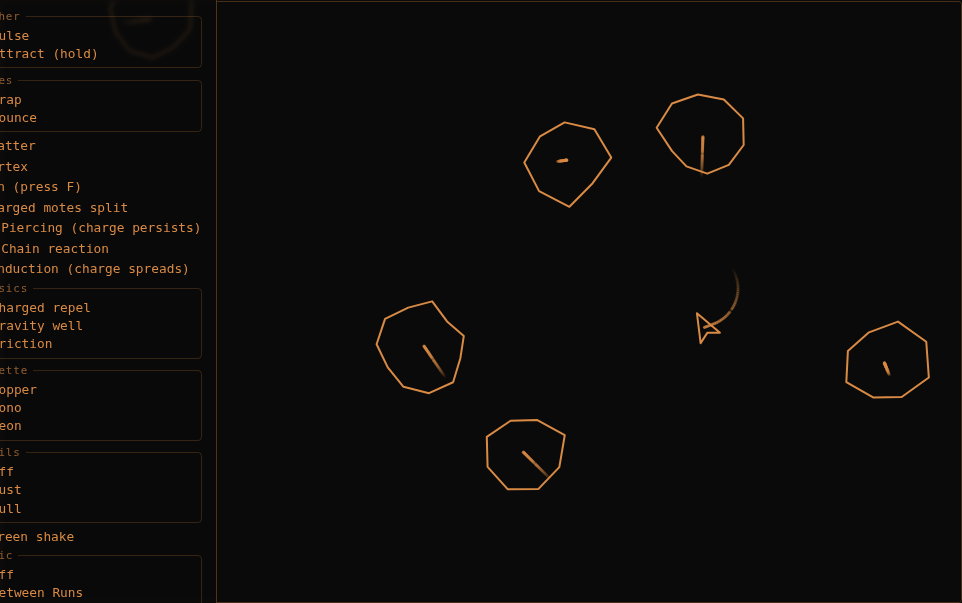
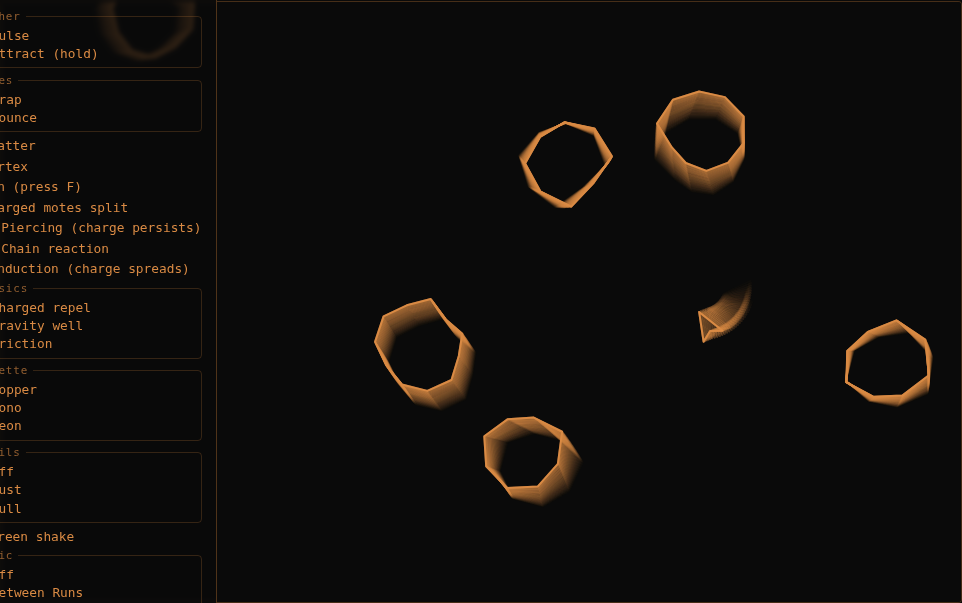
fix: full trail is faded shape outlines (no residue), not blobs
Two more trail corrections from playtest:
- Full was big dots — wrong. It now trails each entity's ACTUAL outline: a list
  of faded shape snapshots (Ghost = pos/angle/radius/shape), the mote polygons and
  the ship, ebbing away.
- The offscreen destination-out fade still left a ~1/255 alpha residue (a rounding
  fixed point) — the "résidus". Dropped the fade entirely: trails are now particles
  (dust grains + full ghosts) that are culled when dead, over a fully-cleared
  canvas, so there is zero permanent residue. The only marks are live ghosts of
  moving entities.

Verified on copper: full smears the shape outlines; the background stays clean (the
smears at rest are the still-drifting motes' live trail, not burn-in).

diff --git a/src/render.ts b/src/render.ts
@@ -4,6 +4,7 @@
 
 import { FIELD_RANGE, PULSE_RANGE } from './sim'
 import type { Config } from './config'
+import type { Vec2 } from './geometry'
 import type { FieldMode, World } from './entities'
 
 interface Palette { bg: string, stroke: string, dim: string, charged: string }
@@ -16,21 +17,26 @@ const PALETTES: Record<Config['palette'], Palette> = {
 
 const PULSE_FLASH = 0.35 // seconds the gather-pulse ripple stays visible
 
-// A trail particle — owned and aged by main; drawn here as a fading dot. The canvas is
-// fully cleared each frame, so trails leave NO residue in the background.
+// Trail particles — owned and aged by main, drawn here. The canvas is fully cleared each
+// frame and dead particles are dropped, so trails leave NO residue. `TrailDot` is a dust
+// grain; `Ghost` is a faded snapshot of an entity's outline (the full trail).
 export interface TrailDot { x: number, y: number, life: number, max: number, r: number, a: number }
+export interface Ghost { x: number, y: number, angle: number, radius: number, shape: Vec2[], ship: boolean, life: number, max: number }
 
 // The active palette for this frame — set at the top of draw(), read by the helpers.
 let active: Palette = PALETTES.copper
 
-export function draw(ctx: CanvasRenderingContext2D, world: World, config: Config, trail: TrailDot[]): void {
+export function draw(ctx: CanvasRenderingContext2D, world: World, config: Config, grains: TrailDot[], ghosts: Ghost[]): void {
   active = PALETTES[config.palette]
-  ctx.fillStyle = active.bg // full opaque clear — no fade residue
+  ctx.fillStyle = active.bg // full opaque clear — no fade residue ever
   ctx.fillRect(0, 0, world.width, world.height)
   ctx.lineJoin = 'round'
   ctx.lineCap = 'round'
 
-  drawTrail(ctx, trail)
+  // Trails (drawn under the crisp world): full = faded shape outlines; dust = grains.
+  if (config.trails === 'full') drawGhosts(ctx, ghosts)
+  else if (config.trails === 'dust') drawGrains(ctx, grains)
+
   drawField(ctx, world)
   drawAsteroids(ctx, world)
   drawBullets(ctx, world)
@@ -38,15 +44,42 @@ export function draw(ctx: CanvasRenderingContext2D, world: World, config: Config
   drawPulse(ctx, world)
 }
 
-// Trail particles: faded dots under the world. dust = sparse small grains, full = a
-// dense streak (main decides the spawn pattern); each dot fades out by life/max.
-function drawTrail(ctx: CanvasRenderingContext2D, trail: TrailDot[]): void {
+// Dust grains: sparse fading dots (main decides the spawn pattern).
+function drawGrains(ctx: CanvasRenderingContext2D, grains: TrailDot[]): void {
   ctx.fillStyle = active.stroke
-  for (const p of trail) {
+  for (const p of grains) {
     ctx.globalAlpha = (p.life / p.max) * p.a
     ctx.beginPath()
     ctx.arc(p.x, p.y, p.r, 0, Math.PI * 2)
     ctx.fill()
+  }
+  ctx.globalAlpha = 1
+}
+
+// Full trail: faded outline snapshots of each entity — its actual shape, ebbing away.
+function drawGhosts(ctx: CanvasRenderingContext2D, ghosts: Ghost[]): void {
+  ctx.strokeStyle = active.stroke
+  ctx.lineWidth = 2
+  for (const g of ghosts) {
+    ctx.globalAlpha = (g.life / g.max) * 0.5
+    ctx.save()
+    ctx.translate(g.x, g.y)
+    ctx.rotate(g.angle)
+    ctx.beginPath()
+    if (g.ship) {
+      ctx.moveTo(0, -16)
+      ctx.lineTo(11, 12)
+      ctx.lineTo(0, 6)
+      ctx.lineTo(-11, 12)
+    } else {
+      for (const [i, v] of g.shape.entries()) {
+        if (i === 0) ctx.moveTo(v.x * g.radius, v.y * g.radius)
+        else ctx.lineTo(v.x * g.radius, v.y * g.radius)
+      }
+    }
+    ctx.closePath()
+    ctx.stroke()
+    ctx.restore()
   }
   ctx.globalAlpha = 1
 }

diff --git a/src/main.ts b/src/main.ts
@@ -4,7 +4,7 @@
 import './style.css'
 import { createWorld, step } from './sim'
 import type { Config } from './config'
-import { draw, type TrailDot } from './render'
+import { draw, type Ghost, type TrailDot } from './render'
 import { createInput } from './input'
 import { createLoop } from './loop'
 import { resumeAudio, setMusic, setSfx, sfxPulse, sfxShatter } from './audio'
@@ -121,34 +121,37 @@ if (panel !== null) {
 let prevPulseT = world.ship.pulseT
 let prevCount = world.asteroids.length
 let shake = 0 // current screen-shake magnitude, px
-let trail: TrailDot[] = []
-const TRAIL_MAX = 3500 // particle cap
+// Trails as particles that are fully dropped when they die → no residue ever. Dust =
+// grains (dots); full = ghosts (faded snapshots of each entity's outline).
+let grains: TrailDot[] = []
+let ghosts: Ghost[] = []
+const GRAIN_MAX = 1200
+const GHOST_LIFE = 28
+const GHOST_MAX = 1800
 
-// Drop a trail particle at a point. dust = sparse, small, faint, short-lived grains;
-// full = a dense longer-lived streak.
-function dropTrail(x: number, y: number, dust: boolean): void {
-  if (dust && Math.random() > 0.55) return
-  const jitter = dust ? 4 : 0
-  const life = dust ? 14 : 42
-  trail.push({
-    x: x + (Math.random() * 2 - 1) * jitter,
-    y: y + (Math.random() * 2 - 1) * jitter,
-    life,
-    max: life,
-    r: dust ? 1 : 1.6,
-    a: dust ? 0.45 : 0.8,
-  })
+// Drop a dust grain near a point: small, jittered, faint, short-lived.
+function dropGrain(x: number, y: number): void {
+  if (Math.random() > 0.55) return
+  grains.push({ x: x + (Math.random() * 2 - 1) * 4, y: y + (Math.random() * 2 - 1) * 4, life: 14, max: 14, r: 1, a: 0.45 })
 }
 
 function stepTrail(): void {
-  if (config.trails !== 'off') {
-    const dust = config.trails === 'dust'
-    dropTrail(world.ship.pos.x, world.ship.pos.y, dust)
-    for (const m of world.asteroids) dropTrail(m.pos.x, m.pos.y, dust)
+  if (config.trails === 'dust') {
+    dropGrain(world.ship.pos.x, world.ship.pos.y)
+    for (const m of world.asteroids) dropGrain(m.pos.x, m.pos.y)
+  } else if (config.trails === 'full') {
+    const s = world.ship
+    ghosts.push({ x: s.pos.x, y: s.pos.y, angle: s.angle, radius: 0, shape: [], ship: true, life: GHOST_LIFE, max: GHOST_LIFE })
+    for (const m of world.asteroids) {
+      ghosts.push({ x: m.pos.x, y: m.pos.y, angle: m.angle, radius: m.radius, shape: m.shape, ship: false, life: GHOST_LIFE, max: GHOST_LIFE })
+    }
   }
-  for (const p of trail) p.life -= 1
-  trail = trail.filter((p) => p.life > 0)
-  if (trail.length > TRAIL_MAX) trail = trail.slice(-TRAIL_MAX)
+  for (const p of grains) p.life -= 1
+  grains = grains.filter((p) => p.life > 0)
+  if (grains.length > GRAIN_MAX) grains = grains.slice(-GRAIN_MAX)
+  for (const g of ghosts) g.life -= 1
+  ghosts = ghosts.filter((g) => g.life > 0)
+  if (ghosts.length > GHOST_MAX) ghosts = ghosts.slice(-GHOST_MAX)
 }
 
 const loop = createLoop(
@@ -160,7 +163,7 @@ const loop = createLoop(
   },
   () => {
     stepTrail()
-    draw(ctx, world, config, trail)
+    draw(ctx, world, config, grains, ghosts)
     const grew = world.asteroids.length > prevCount // motes split (heuristic: count grew)
     if (world.ship.pulseT < 0.05 && prevPulseT > 0.1) sfxPulse()
     if (grew) sfxShatter()

diff --git a/docs/ROADMAP.md b/docs/ROADMAP.md
@@ -62,10 +62,11 @@ Each has a discriminating test.
 ### Slice M2 — mode pack: juice (done)
 
 Visual sandbox toggles, view/main side: **palette** (copper / mono / neon — `render.ts`
-PALETTES), **trails** (off / dust / full — **fading particles** over a fully-cleared
-canvas, so the background never leaks; dust is sparse grain, full a dense streak; the
-particle state lives in `main.ts`, drawn via `render.ts` `drawTrail`), **screen-shake**
-on shatters (`main.ts` jitters the canvas element). The
+PALETTES), **trails** (off / dust / full — particles that are **dropped when they die**
+over a fully-cleared canvas, so the background never leaks: dust = sparse grain dots
+(`TrailDot`), full = faded snapshots of each entity's **actual outline** (`Ghost`); state
+in `main.ts`, drawn via `render.ts`), **screen-shake** on shatters (`main.ts` jitters the
+canvas element). The
 audio-on-refresh gap is closed too: a music track the browser restores now starts on the
 first user gesture (`onFirstGesture` re-applies the panel), so the panel matches what
 plays.
